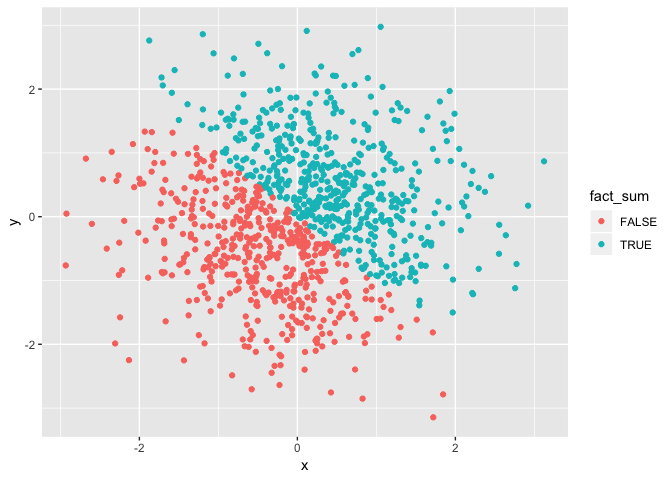
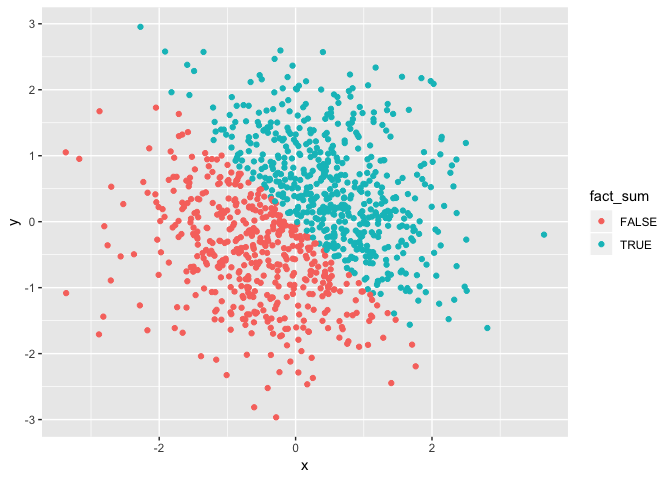
Checking over questions and format after office hours

diff --git a/p8105_hw1_dk2759.md b/p8105_hw1_dk2759.md
@@ -31,38 +31,21 @@ variable_df = tibble(
   vec_char = c("A", "B", "C", "D", "E", "F", "G", "H", "I", "J"),
   vec_factor = factor(c("h", "e", "l", "l", "o", "w", "o", "r", "l", "d"))
 )
-## ?do I need to show a table?
-## variable_df
 
 ## Taking the means of each variable in dataframe
 mean(variable_df$vec_random)
-```
-
-    ## [1] 2.956259
-
-``` r
+## [1] 1.586043
 mean(variable_df$vec_logical)
-```
-
-    ## [1] 0.7
-
-``` r
+## [1] 0.3
 mean(variable_df$vec_char)
-```
-
-    ## Warning in mean.default(variable_df$vec_char): argument is not numeric or
-    ## logical: returning NA
-
-    ## [1] NA
-
-``` r
+## Warning in mean.default(variable_df$vec_char): argument is not numeric or
+## logical: returning NA
+## [1] NA
 mean(variable_df$vec_factor)
+## Warning in mean.default(variable_df$vec_factor): argument is not numeric or
+## logical: returning NA
+## [1] NA
 ```
-
-    ## Warning in mean.default(variable_df$vec_factor): argument is not numeric or
-    ## logical: returning NA
-
-    ## [1] NA
 
 The variable `vec_random` has class numeric and the variable
 `vec_logical` has class logical. `mean` works on numeric and logical
@@ -138,12 +121,12 @@ p2_df = tibble(
 
   - The above dataframe, “p2\_df” is 1000, 5
 
-  - The mean is 0.0116327 and the median is 0.0293898
+  - The mean is 0.0386796 and the median is 0.0410082
 
 *?Do I need to round or trincate? How can I do this?*
 
   - The proportion of cases for which the logical vector is `TRUE` is
-    52.2
+    54.1
 
 *I’m not sure if I should use the sum function here then devide by the
 nrow(df). `mean` works if we are taking the proportion of 0 and 1
@@ -178,4 +161,8 @@ The color scale of the scatterplot of x and y as well as the scatterplot
 using factor variables uses True and False and a more distinct color
 scheme. The numeric scatter plot color scale is a gradient assigning
 colors for intervals between 0 and 1, but we only have 0 and 1 and thus
-two colors shown.
+two colors shown. The color scale of the scatterplot of x and y as well
+as the scatterplot using factor variables uses True and False and a more
+distinct color scheme. The numeric scatter plot color scale is a
+gradient assigning colors for intervals between 0 and 1, but we only
+have 0 and 1 and thus two colors shown.
